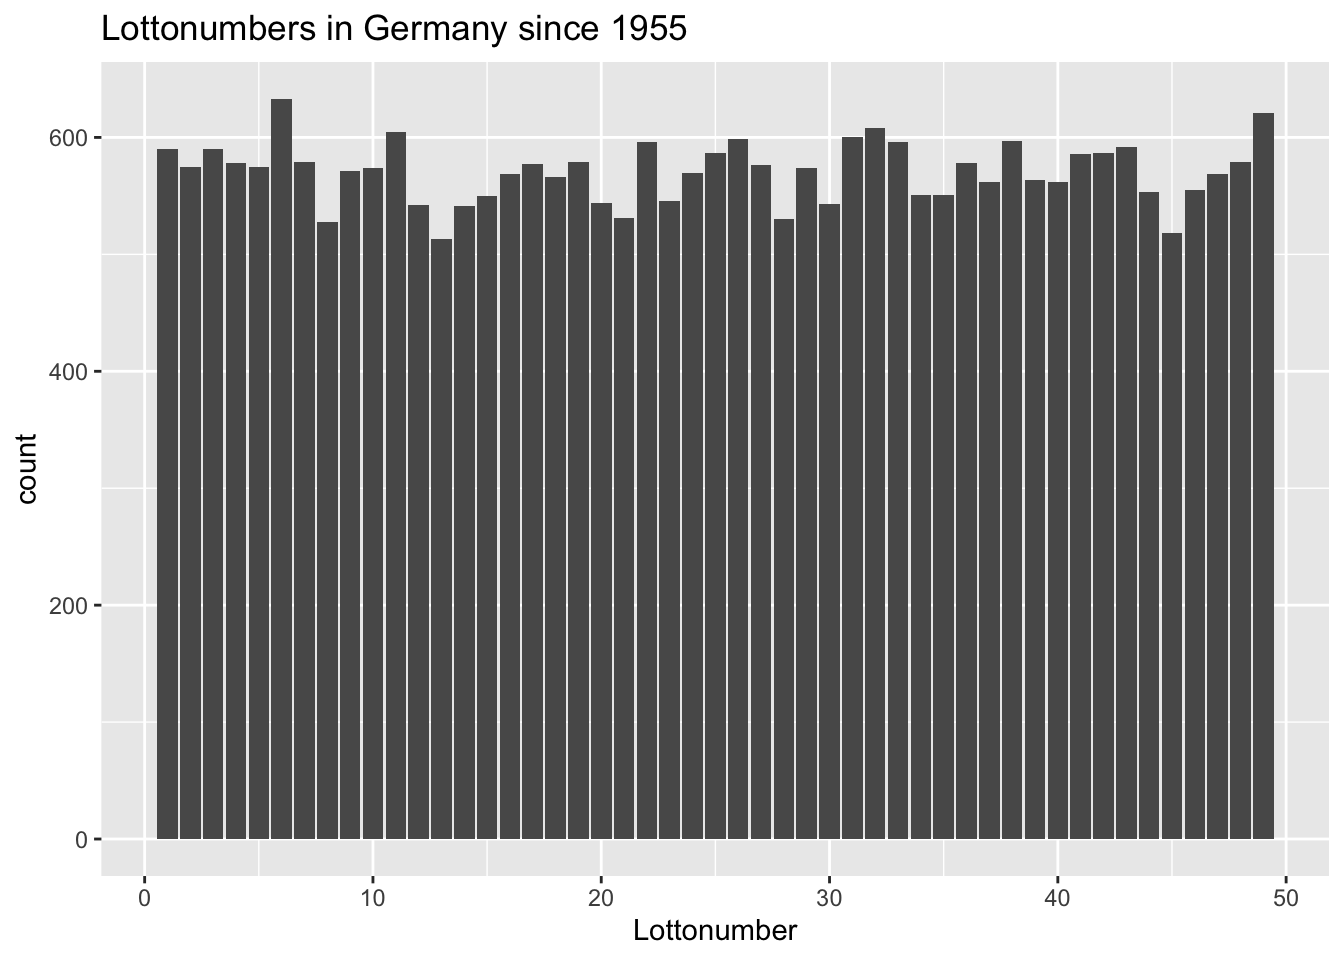
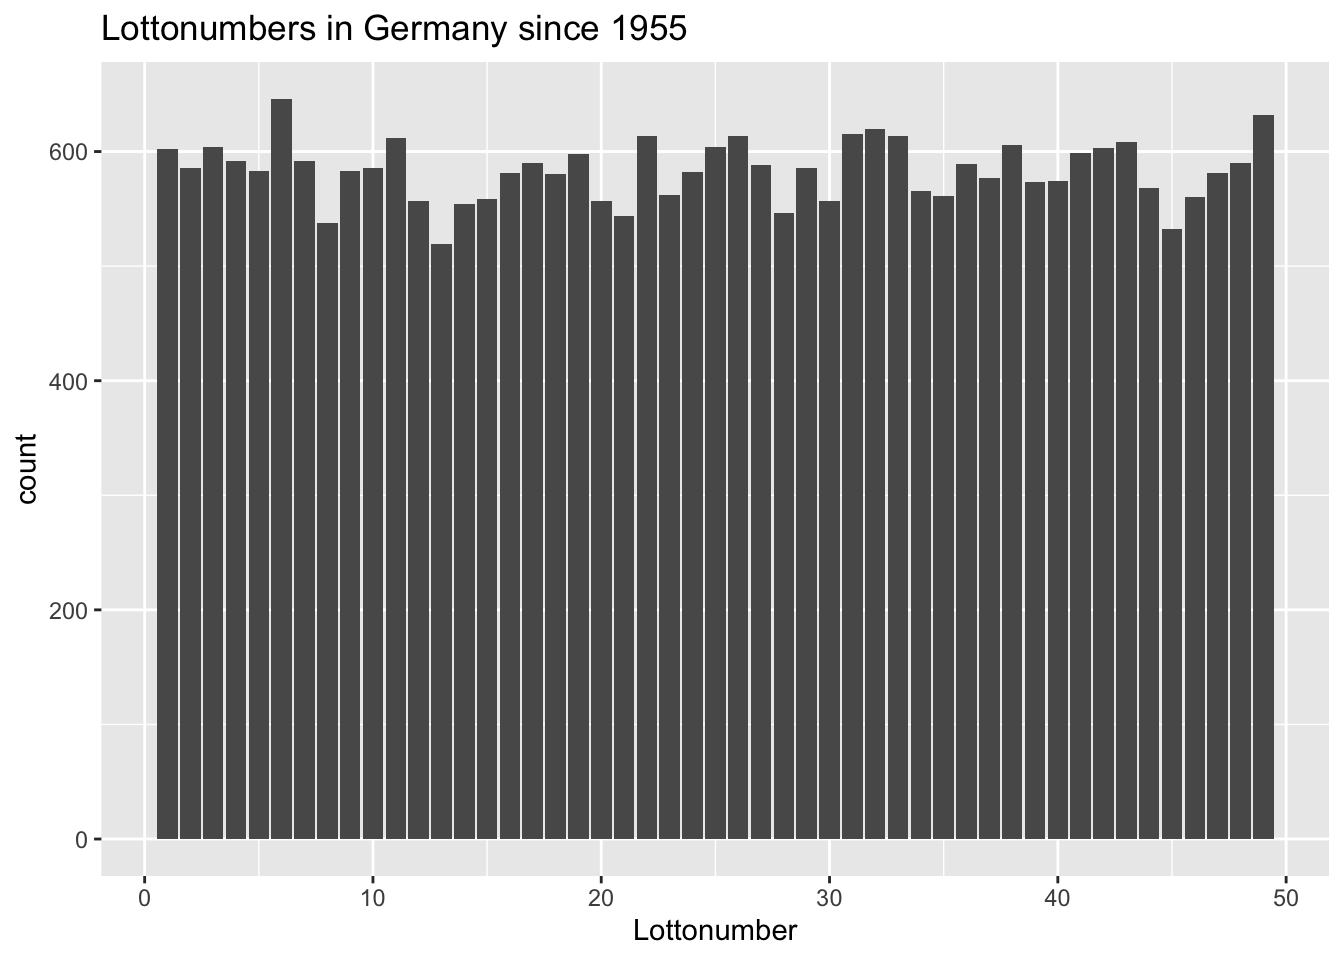
add 2023 analysis

diff --git a/README.md b/README.md
@@ -48,14 +48,16 @@ lottonumbers_count %>%
   arrange(desc(count)) %>% 
   top_n(5)
 ## Selecting by count
-## # A tibble: 5 × 2
+## # A tibble: 7 × 2
 ##   value count
 ##   <int> <int>
-## 1     6   633
-## 2    49   621
-## 3    32   608
-## 4    11   605
-## 5    31   600
+## 1     6   646
+## 2    49   632
+## 3    32   620
+## 4    31   615
+## 5    22   614
+## 6    26   614
+## 7    33   614
 ```
 
 Now we want to summarise all numbers from 1-49 and their appearance.
@@ -97,27 +99,28 @@ ggplot(superzahl, aes(value, count, fill = Day)) +
 
 <img src="README_figs/README-unnamed-chunk-5-1.png" width="672" style="display: block; margin: auto;" />
 
-What were the numbers most chosen in 2022?
+What were the numbers most chosen in 2023?
 
 ``` r
 data %>% 
   filter(variable == "Lottozahl") %>% 
   mutate(date = dmy(date),
          year = year(date)) %>% 
-  filter(year == 2022) %>% 
+  filter(year == 2023) %>% 
   group_by(value) %>% 
   summarise(count = n()) %>% 
-   arrange(desc(count)) %>% 
-  top_n(5)
-## Selecting by count
-## # A tibble: 5 × 2
+  slice_max(count, n = 5)
+## # A tibble: 8 × 2
 ##   value count
 ##   <int> <int>
-## 1    49    21
-## 2     1    20
-## 3    16    20
-## 4     2    18
-## 5    32    18
+## 1    19    19
+## 2    22    18
+## 3    33    18
+## 4    25    17
+## 5    23    16
+## 6    28    16
+## 7    42    16
+## 8    43    16
 ```
 
 ### Python
@@ -130,15 +133,16 @@ executed.
 import pandas as pd
 
 data = pd.read_json("https://johannesfriedrich.github.io/LottoNumberArchive/Lottonumbers_tidy_complete.json")
+## <string>:2: UserWarning: Parsing dates in DD/MM/YYYY format when dayfirst=False (the default) was specified. This may lead to inconsistently parsed dates! Specify a format to ensure consistent parsing.
 
 res = data[data.variable == "Lottozahl"].groupby("value")["value"].count().sort_values(ascending = False)
 
 print(res.head(5))
 ## value
-## 6     633
-## 49    621
-## 32    608
-## 11    605
-## 31    600
+## 6     646
+## 49    632
+## 32    620
+## 31    615
+## 33    614
 ## Name: value, dtype: int64
 ```
